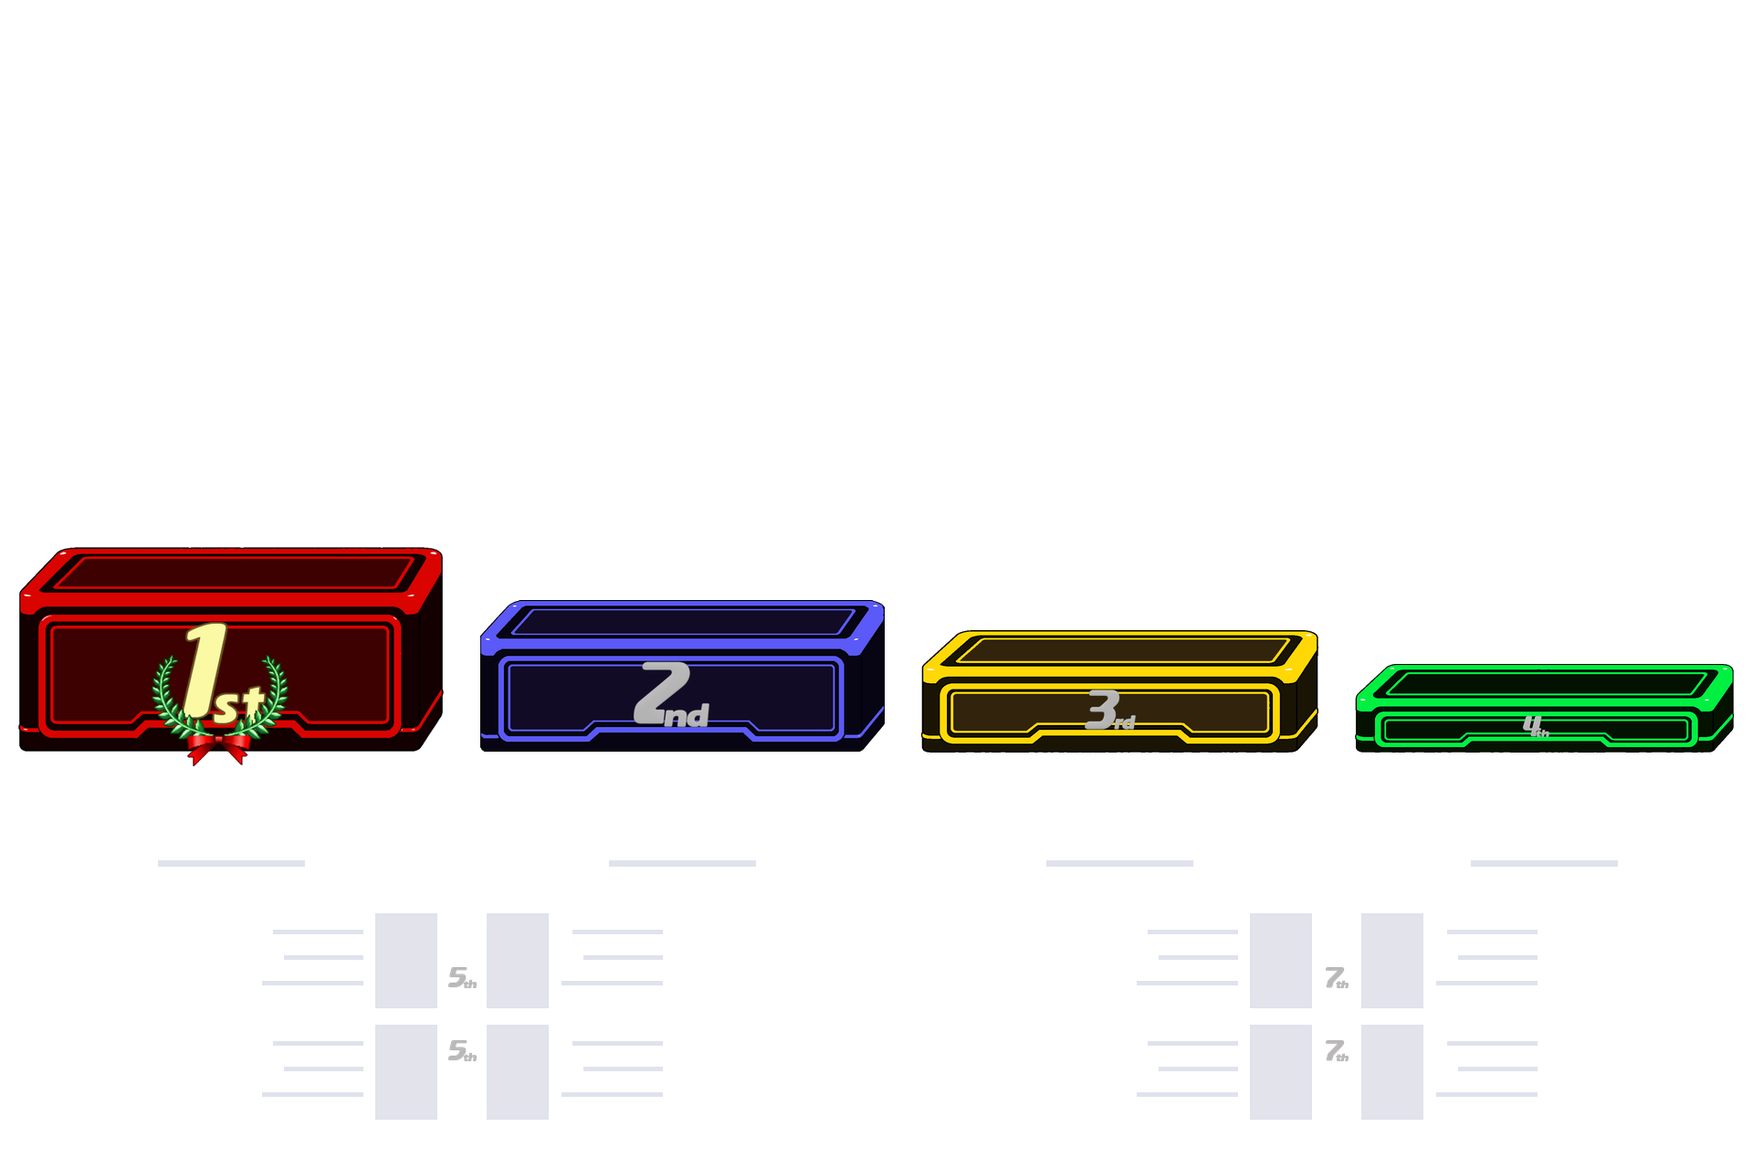
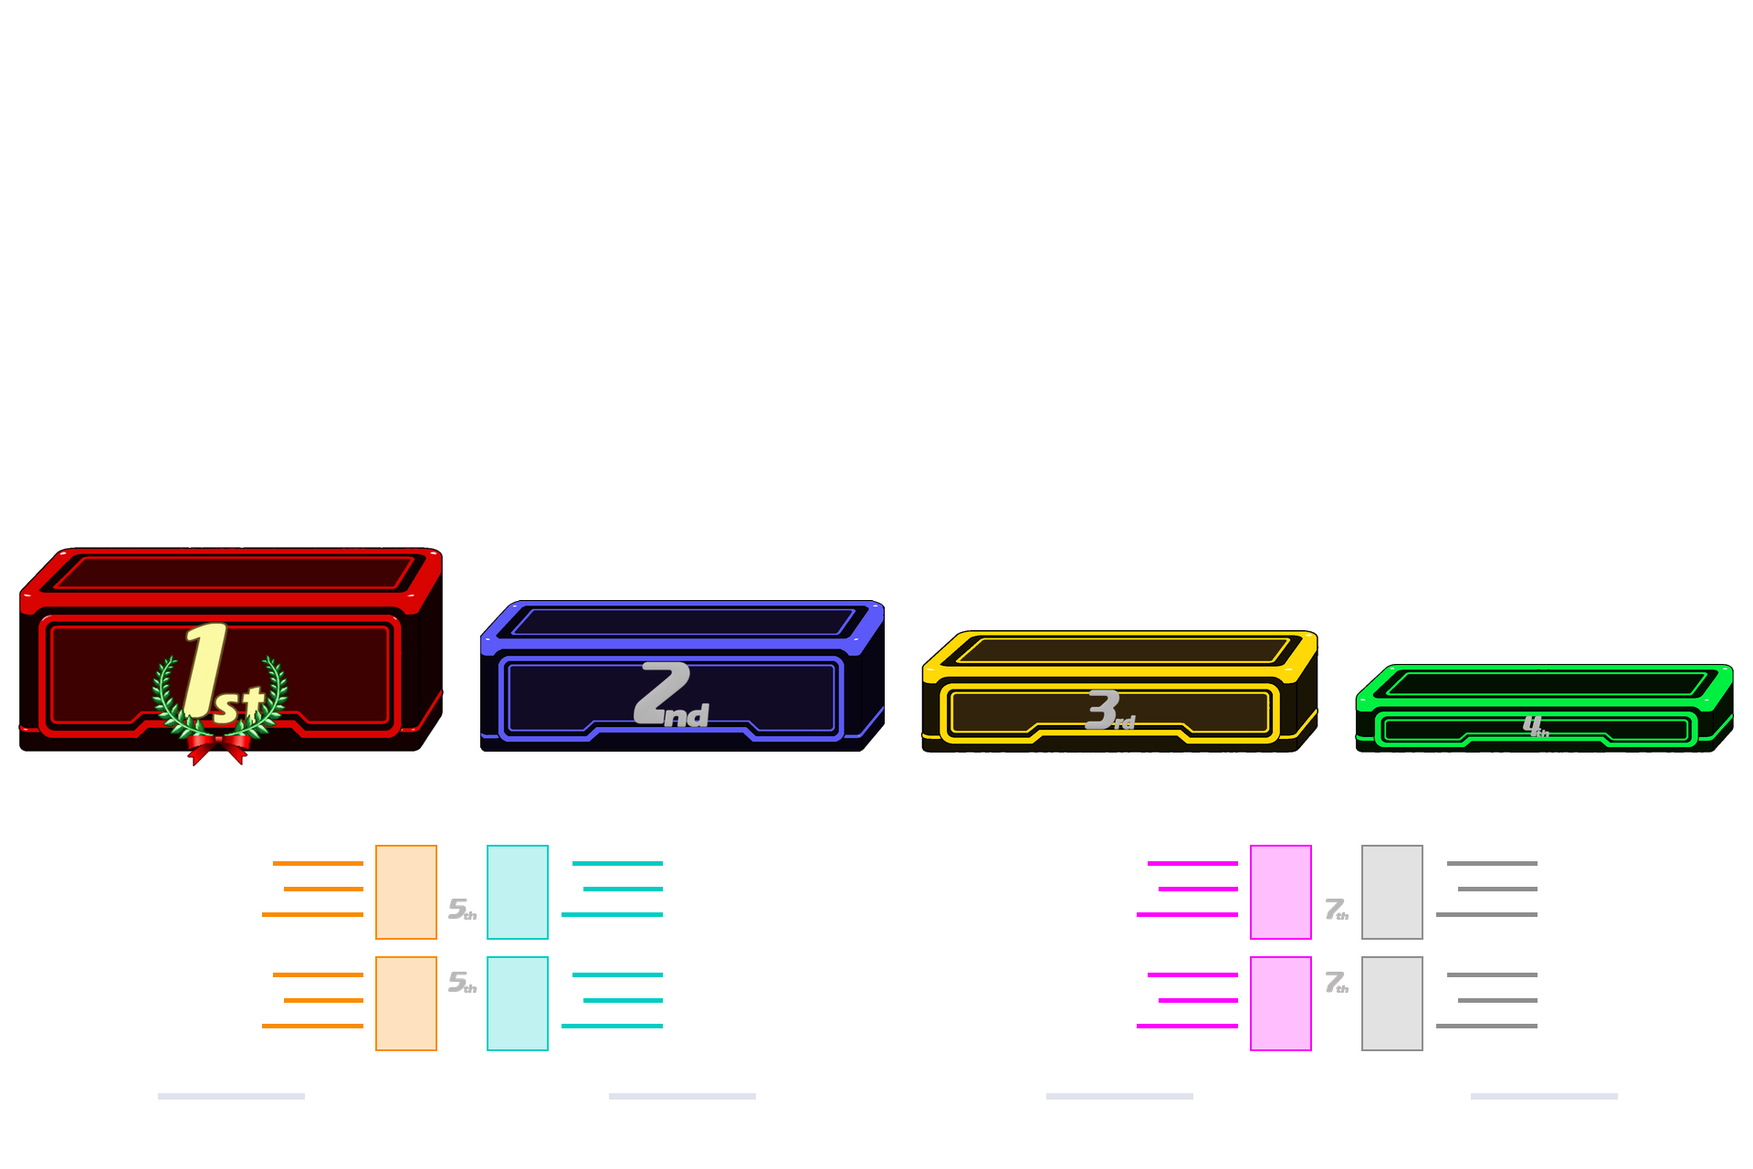
adding top 16 singles and top 8 doubles templates, fixing the colors and layout

Changed region(s): [[0.0938, 0.7188, 0.4375, 0.9688], [0.5938, 0.7188, 0.9062, 0.9688]]

diff --git a/test/extended_clapping_test.py b/test/extended_clapping_test.py
@@ -11,7 +11,8 @@ from PIL import Image, ImageChops
 
 from app import app
 from background_builder import BackgroundRequest
-from creation import CreationPipeline, CreationRequest
+from creation import CreationPipeline, CreationRequest, TextSettings
+from clapping_colors import TOP16_PLAYER_COLOR_SLOTS, resolve_clapping_podium_colors
 from creation_modes import CreationMode, ModeOptions, ModeSelection, PodiumStyle
 from DrawPodium import PodiumFont
 from extended_clapping_renderer import DoublesClappingContentRenderer, SinglesTop16ClappingContentRenderer
@@ -131,6 +132,48 @@ class ExtendedClappingTest(unittest.TestCase):
             with self.assertRaisesRegex(ValueError, "fit every lower entrant"):
                 InvalidRenderer().prepare(Image.new("RGBA", preferences.canvas_size.as_tuple()), request, preferences)
 
+    def test_revised_labels_and_badges_follow_portrait_geometry(self):
+        for style in PodiumStyle:
+            renderer = DoublesClappingContentRenderer()
+            selection = ModeSelection(CreationMode.PODIUM, ModeOptions(TournamentFormat.DOUBLES, 8, "four_podium", style))
+            profile = renderer._profile(type("Request", (), {"selection": selection})())
+            for label in profile["team_names"]:
+                panels = [row for row in profile["panels"] if row["entrant_slot"] == label["entrant_slot"]]
+                self.assertEqual(panels[0]["portrait_rect"][1], 925)
+                self.assertGreater(label["anchor"]["y"], max(row["portrait_rect"][3] for row in panels))
+            selection = ModeSelection(CreationMode.PODIUM, ModeOptions(TournamentFormat.SINGLES, 16, "clapping", style))
+            profile = SinglesTop16ClappingContentRenderer()._profile(type("Request", (), {"selection": selection})())
+            for panel, badge in zip(profile["panels"], profile["placement_tags"], strict=True):
+                self.assertEqual(badge["anchor"]["x"], panel["portrait_rect"][2] + 20)
+                self.assertEqual(badge["anchor"]["y"], panel["portrait_rect"][3] + 12)
+
+    def test_top16_player_palette_groups_ties_and_legacy_lower_colors_reverse(self):
+        from app import _custom_preview_colors
+        source = PodiumColorConfiguration.from_preset(PodiumColorPreset.LEGACY)
+        teams = sample_singles_entrants(16, random.Random(16))
+        for style in PodiumStyle:
+            selection = ModeSelection(CreationMode.PODIUM, ModeOptions(TournamentFormat.SINGLES, 16, "clapping", style))
+            preferences = ModePreferenceRepository().load(selection)
+            colors = resolve_clapping_podium_colors(selection, source) if style is PodiumStyle.CUSTOMIZABLE else None
+            request = CreationRequest(selection, BackgroundRequest(preferences.canvas_size), teams,
+                                      sample_tournament(), podium_colors=colors)
+            actual = [SinglesTop16ClappingContentRenderer._default_text_style(request, slot)[0] for slot in range(1, 17)]
+            if style is PodiumStyle.CUSTOMIZABLE:
+                expected = [source.color_for_slot(slot).resolve().text_color for slot in TOP16_PLAYER_COLOR_SLOTS]
+                self.assertEqual(actual, expected)
+            else:
+                self.assertEqual(actual[8:], actual[:8][::-1])
+            override = replace(request, text_settings=TextSettings(entrant_text_color_mode="pick_1", entrant_text_colors=("#12345678",)))
+            self.assertEqual(SinglesTop16ClappingContentRenderer._default_text_style(override, 16), ("#12345678", False))
+        api_colors = _custom_preview_colors({"mode": "premade", "preset": "smash_player_colors", "colors": [],
+                    "preset_transparency": {"main_color": 50, "face_color": 25, "base_color": 75}}, 16, "clapping")
+        for slot, source_slot in enumerate(TOP16_PLAYER_COLOR_SLOTS, start=1):
+            actual = api_colors.color_for_slot(slot).resolve()
+            original = source.color_for_slot(source_slot).resolve()
+            self.assertEqual(actual.main_color, original.main_color[:7] + "80")
+            self.assertEqual(actual.face_color, original.face_color[:7] + "BF")
+            self.assertEqual(actual.base_color, original.base_color[:7] + "40")
+
     def test_new_canvas_composition_is_retained_in_every_gif_frame(self):
         def upload(image):
             buffer = BytesIO()
@@ -149,13 +192,23 @@ class ExtendedClappingTest(unittest.TestCase):
             })
             self.assertEqual(response.status_code, 200)
             with Image.open(BytesIO(response.data)) as image:
+                reference_pixels = {}
                 for index in (0, 18, 41):
                     image.seek(index)
                     frame = image.convert("RGBA")
-                    for point, expected in (((800, height - 4), (18, 52, 86)), ((710, 30), (204, 102, 51))):
+                    # The footer can now choose the middle after team labels move.
+                    # Sample the clear gap between the two lower result groups.
+                    for point, expected in (((836, height - 100), (18, 52, 86)), ((710, 30), (204, 102, 51))):
                         actual = frame.getpixel(point)
                         self.assertEqual(actual[3], 255)
-                        self.assertLess(max(abs(a - b) for a, b in zip(actual[:3], expected)), 32)
+                        # GIF indexing can shift a rare logo color more in one
+                        # channel; check aggregate color error and exact stability.
+                        self.assertLess(sum((a - b) ** 2 for a, b in zip(actual[:3], expected)), 3 * 32 ** 2,
+                                        f"{event_format} frame {index}, pixel {point}: {actual}")
+                        if index == 0:
+                            reference_pixels[point] = actual
+                        else:
+                            self.assertEqual(actual, reference_pixels[point])
 
 
 if __name__ == "__main__":

diff --git a/extended_clapping_renderer.py b/extended_clapping_renderer.py
@@ -8,10 +8,13 @@ from random import choice
 from PIL import ImageDraw
 
 from color_values import format_rgba_hex
+from clapping_colors import legacy_top16_text_slot, TOP16_PLAYER_COLOR_SLOTS
+from creation_modes import PodiumStyle
 from DrawPodium import _character_with_team_color, _draw_text, _text_bounds, _wrap_text
 from font_size_adjustments import adjusted_size
 from models import SinglesEntrant, TournamentFormat
 from podiums_clapping_renderer import PodiumsClappingContentRenderer
+from podium_colors import PodiumColorConfiguration, PodiumColorMode, PodiumColorPreset
 
 
 PROFILE = Path(__file__).resolve().parent / "preferences/portraits/extended_clapping.json"
@@ -37,12 +40,6 @@ class ExtendedClappingContentRenderer(PodiumsClappingContentRenderer):
                 teams.append(replace(team, team_color=None, entrant_1=members[0], entrant_2=members[1]))
             request = replace(request, entrants=teams)
         return super().prepare(canvas, request, preferences, **kwargs)
-
-    @staticmethod
-    def _default_text_style(request, entrant_slot):
-        if request.text_settings.entrant_text_color_mode == "match_podium":
-            entrant_slot = (entrant_slot - 1) % 8 + 1
-        return PodiumsClappingContentRenderer._default_text_style(request, entrant_slot)
 
     @staticmethod
     def _default_text_style(request, entrant_slot):
@@ -81,7 +78,7 @@ class DoublesClappingContentRenderer(ExtendedClappingContentRenderer):
                 color = format_rgba_hex(*color[:3], color[3] if len(color) == 4 else 255)
             options = dict(anchor=row["pillow_anchor"], max_width=row["max_width"],
                            preferred_size=adjusted_size(row["preferred_size"], team.team_name_font_size_adjustment),
-                           font=self.font)
+                           font=self.font, vertical_center_lines=2)
             position = (row["anchor"]["x"], row["anchor"]["y"])
             text = _wrap_text(team.team_name, row["max_width"], options["preferred_size"], self.font)
             if text.count("\n") > 1:
@@ -92,5 +89,18 @@ class DoublesClappingContentRenderer(ExtendedClappingContentRenderer):
 
 
 class SinglesTop16ClappingContentRenderer(ExtendedClappingContentRenderer):
+    @staticmethod
+    def _default_text_style(request, entrant_slot):
+        if request.text_settings.entrant_text_color_mode == "match_podium":
+            if request.selection.options.podium_style is PodiumStyle.LEGACY:
+                entrant_slot = legacy_top16_text_slot(entrant_slot)
+            elif isinstance(request.podium_colors, PodiumColorConfiguration):
+                colors = request.podium_colors
+                if colors.mode is PodiumColorMode.PRESET and colors.preset is PodiumColorPreset.LEGACY:
+                    entrant_slot = TOP16_PLAYER_COLOR_SLOTS[entrant_slot - 1]
+                elif colors.mode is PodiumColorMode.PRESET or len(colors.colors) < 16:
+                    entrant_slot = (entrant_slot - 1) % 8 + 1
+        return PodiumsClappingContentRenderer._default_text_style(request, entrant_slot)
+
     def _panel_keys(self):
         return tuple((slot, None) for slot in range(9, 17))

diff --git a/clapping_preview_layers.py b/clapping_preview_layers.py
@@ -7,11 +7,13 @@ from pathlib import Path
 from PIL import Image, ImageDraw
 
 from creation_modes import CreationMode, ModeOptions, ModeSelection, PodiumStyle
+from clapping_colors import top16_player_colors, legacy_top16_text_slot
 from extended_clapping_renderer import PROFILE
 from formatting_assets import FormattingAssetRenderer, draw_placement_tags
 from mode_preferences import ModePreferenceRepository, PlacementTagPlacement
 from models import TournamentFormat
 from preview_layers import _customizable_colors
+from podium_colors import PodiumColorConfiguration, PodiumColorPreset
 
 
 EXTENDED_CLAPPING_LAYOUTS = {
@@ -26,18 +28,28 @@ def render_extended_clapping_layer(style, layout_id, color_id=None):
     preferences = ModePreferenceRepository().load(selection)
     canvas = Image.new("RGBA", preferences.canvas_size.as_tuple(), "#00000000")
     colors = _customizable_colors(color_id or "smash_player_colors", 8) if style is PodiumStyle.CUSTOMIZABLE else None
+    top16 = layout_id == "singles_top_16_clapping"
+    if top16 and style is PodiumStyle.CUSTOMIZABLE and color_id in {None, "smash_player_colors"}:
+        colors = top16_player_colors(colors)
     result = FormattingAssetRenderer().draw(canvas, preferences, colors)
     profile = json.loads(PROFILE.read_text(encoding="utf-8"))["layouts"][layout_id][style.value]
     draw = ImageDraw.Draw(result)
     for panel in profile["panels"]:
+        slot = panel["entrant_slot"]
+        if top16 and style is PodiumStyle.LEGACY:
+            slot = legacy_top16_text_slot(slot)
+        elif not (top16 and colors is not None and len(colors.colors) == 16):
+            slot = (slot - 1) % 8 + 1
+        palette = colors or PodiumColorConfiguration.from_preset(PodiumColorPreset.LEGACY)
+        text_color = palette.color_for_slot(slot).resolve().text_color
         left, top, right, bottom = panel["portrait_rect"]
-        draw.rectangle((left, top, right - 1, bottom - 1), fill="#8E95AF40", outline="#D8DCE8CC", width=2)
+        draw.rectangle((left, top, right - 1, bottom - 1), fill=f"{text_color[:7]}40", outline=text_color, width=2)
         x = panel["text_x"]
         size = min(110, panel["text_max_width"])
         start = x - size if panel["text_alignment"] == "right" else x
         for offset, inset in ((20, 12), (48, 24), (76, 0)):
             y = top + round(offset * panel.get("identity_scale", 1))
-            draw.line((start + inset, y, start + size, y), fill="#D8DCE8CC", width=5)
+            draw.line((start + inset, y, start + size, y), fill=text_color, width=5)
     for row in profile.get("team_names", []):
         x, y = row["anchor"]["x"], row["anchor"]["y"]
         draw.line((x - 80, y + 20, x + 80, y + 20), fill="#D8DCE8CC", width=7)

diff --git a/test/generate/generate_extended_clapping_geometry.py b/test/generate/generate_extended_clapping_geometry.py
@@ -30,17 +30,17 @@ def generate():
             for member in (1, 2):
                 row = deepcopy(panel)
                 row["member_slot"] = member
-                row["portrait_rect"][1] = 1000 + (member - 1) * 122
+                row["portrait_rect"][1] = 925 + (member - 1) * 122
                 row["portrait_rect"][3] = row["portrait_rect"][1] + 104
                 profile["panels"].append(row)
-            # Keep the heading centered over the full text/portrait block.
+            # Center the team label beneath both member rows, like the podium labels.
             left = panel["text_x"] - panel["text_max_width"] if panel["text_alignment"] == "right" else panel["portrait_rect"][0]
             right = panel["portrait_rect"][2] if panel["text_alignment"] == "right" else panel["text_x"] + panel["text_max_width"]
             profile["team_names"].append({"entrant_slot": panel["entrant_slot"],
-                "anchor": {"x": (left + right) // 2, "y": 925}, "max_width": right - left,
+                "anchor": {"x": (left + right) // 2, "y": 1180}, "max_width": right - left,
                 "pillow_anchor": "ma", "preferred_size": 34})
         for index, badge in enumerate(profile["placement_tags"]):
-            badge["anchor"]["y"] = 1070 + (index % 2) * 80
+            badge["anchor"]["y"] = 995 + (index % 2) * 80
         layouts["doubles_top_8_four_podium"][style] = profile
 
         singles = json.loads((folder / "singles_top_8.json").read_text())
@@ -77,8 +77,8 @@ def generate():
                 "text_max_width": right - left - 61, "text_alignment": "left", "identity_scale": 0.7})
             profile["placement_tags"].append({"slot_id": f"entrant_{index + 9}_placement_tag",
                 "asset_id": "09th.png" if index < 4 else "13th.png",
-                "anchor": {"x": (left + right) // 2, "y": 821},
-                "max_size": {"width": 48, "height": 32}, "z_index": 200 + index})
+                "anchor": {"x": left + 52 + 20, "y": 942},
+                "max_size": {"width": 42, "height": 24}, "z_index": 200 + index})
         layouts["singles_top_16_clapping"][style] = profile
     write_json(ROOT / "preferences/portraits/extended_clapping.json", {"schema_version": 1, "layouts": layouts})
 

diff --git a/clapping_colors.py b/clapping_colors.py
@@ -1,0 +1,29 @@
+"""Rank-based player colors for Singles Top 16's podium and clapping rows."""
+
+from creation_modes import CreationMode
+from podium_colors import PodiumColorConfiguration, PodiumColorMode, PodiumColorPreset
+
+
+# Four leading colors, then one color per tied tournament placement group.
+TOP16_PLAYER_COLOR_SLOTS = (1, 2, 3, 4, 5, 5, 6, 6, 7, 7, 7, 7, 8, 8, 8, 8)
+
+
+def top16_player_colors(source):
+    """Retain all palette channels and finishes while grouping tied ranks."""
+    return PodiumColorConfiguration.per_podium(
+        *(source.color_for_slot(slot) for slot in TOP16_PLAYER_COLOR_SLOTS)
+    )
+
+
+def resolve_clapping_podium_colors(selection, colors):
+    """Expand the default player preset; explicit colors and other presets stay editable."""
+    if (selection.mode is CreationMode.PODIUM and selection.submode_id == "singles_top_16_clapping"
+            and isinstance(colors, PodiumColorConfiguration)
+            and colors.mode is PodiumColorMode.PRESET and colors.preset is PodiumColorPreset.LEGACY):
+        return top16_player_colors(colors)
+    return colors
+
+
+def legacy_top16_text_slot(entrant_slot):
+    """Keep the eight fixed podium colors, then reverse them across the lower row."""
+    return entrant_slot if entrant_slot <= 8 else 17 - entrant_slot

diff --git a/creation.py b/creation.py
@@ -3,7 +3,7 @@
 from __future__ import annotations
 
 from collections.abc import Mapping, Sequence
-from dataclasses import dataclass, field
+from dataclasses import dataclass, field, replace
 
 from PIL import Image
 
@@ -14,6 +14,7 @@ from background_builder import (
     create_background,
 )
 from color_values import normalize_rgba_hex
+from clapping_colors import resolve_clapping_podium_colors
 from content_renderer import ContentRenderer
 from font_size_adjustments import validate_font_size_adjustment
 from creation_modes import CreationMode, ModeSelection, PodiumStyle
@@ -210,6 +211,7 @@ class CreationPipeline:
     def create(self, request: CreationRequest) -> Image.Image:
         mode_preferences = self.preferences.load(request.selection)
         self._validate_preferences(request, mode_preferences)
+        request = replace(request, podium_colors=resolve_clapping_podium_colors(request.selection, request.podium_colors))
 
         background = create_background(
             request.background,

diff --git a/format_preview.py b/format_preview.py
@@ -17,6 +17,7 @@ from background_builder import (
 )
 from creation import CreationRequest
 from creation import TextSettings
+from clapping_colors import resolve_clapping_podium_colors
 from DrawPodium import PodiumFont
 from creation_modes import CreationMode, ModeOptions, ModeSelection, PodiumStyle
 from formatting_assets import FormattingAssetRenderer
@@ -153,6 +154,7 @@ def prepare_format_preview(
         if creation_mode is CreationMode.PODIUM and style is PodiumStyle.CUSTOMIZABLE
         else None
     )
+    podium_colors = resolve_clapping_podium_colors(selection, podium_colors)
     if creation_mode in {CreationMode.EYES, CreationMode.SQUARES, CreationMode.RADIAL} and formatting_colors is None:
         raise ValueError("Eyes, Squares, and Radial previews require formatting colors")
     request = CreationRequest(

diff --git a/app.py b/app.py
@@ -403,6 +403,10 @@ def _custom_preview_colors(
                 tuple(source.color_for_slot(slot) for slot in range(1, 9)),
                 color_count,
             )
+            if entrant_count == 16 and variant == "clapping":
+                from clapping_colors import top16_player_colors
+                colors = top16_player_colors(colors)
+                color_count = 16
         elif preset == "olympic_medals":
             source = PodiumColorConfiguration.from_preset(PodiumColorPreset.MEDALS)
             medal_colors = tuple(

diff --git a/AGENTS.md b/AGENTS.md
@@ -94,7 +94,7 @@
 
 - Podiums+Clapping is the official display name of the existing `four_podium` Singles Top 8 selection; preserve that identifier and geometry filenames for saved-format compatibility. Its Animated checkbox defaults to true, serializes in `selection.options.animated`, and restores false explicitly. Turning animation off keeps the four portrait panels as still images. Both versions share reviewed geometry in `preferences/portraits/podiums_clapping.json`; exact animated previews and downloads encode the synchronized clapping cycle as a looping GIF, with a standard PNG for still output. Compose the selected background and logo before encoding animation rather than flattening the download through browser canvas.
 
-- Extended Podiums+Clapping supports Doubles Top 8 (`doubles_top_8_four_podium`) and Singles Top 16 (`singles_top_16_clapping`) in both podium styles. Doubles keeps four podium teams and uses a 1280px-tall canvas with each lower team's name above two vertically stacked member portraits and identities. Singles Top 16 derives its eight podiums from Singles Top 8, moves podiums, portrait anchors, seeds, and placement art upward together by 48px, removes character-name footer labels, and uses a 1000px-tall canvas with eight smaller clapping panels underneath. Tournament ranks are 1, 2, 3, 4, 5, 5, 7, 7, four 9ths, and four 13ths. Keep the new panel geometry independent in `preferences/portraits/extended_clapping.json`; animation defaults on and explicit false restores still output. Cached formatting layers preserve the expanded canvases while shared podium header layers retain their original 941px vertical calibration.
+- Extended Podiums+Clapping supports Doubles Top 8 (`doubles_top_8_four_podium`) and Singles Top 16 (`singles_top_16_clapping`) in both podium styles. Doubles keeps four podium teams and uses a 1280px-tall canvas with two vertically stacked member portraits and identities above each lower team's name, matching the team labels beneath the upper podiums. Singles Top 16 derives its eight podiums from Singles Top 8, moves podiums, portrait anchors, seeds, and placement art upward together by 48px, removes character-name footer labels, and uses a 1000px-tall canvas with eight smaller clapping panels underneath. Its lower placement badges sit beside each portrait's bottom-right corner beneath the player name. Tournament ranks are 1, 2, 3, 4, 5, 5, 7, 7, four 9ths, and four 13ths. The Customizable Smash Player Colors preset groups tied ranks: both fifths orange, both sevenths teal, all ninths magenta, and all thirteenths gray; explicit color selections remain editable. Legacy retains the eight fixed podium colors and reverses their order for the lower clapping row. Keep the new panel geometry independent in `preferences/portraits/extended_clapping.json`; animation defaults on and explicit false restores still output. Cached formatting layers preserve the expanded canvases while shared podium header layers retain their original 941px vertical calibration.
 
 - Clapping portrait calibration saves independent 2nd-, 3rd-, and 4th-place zoom/crop profiles for all 26 characters in `preferences/portraits/clapping.json`. Current portraits use 3rd-place proportions for every lower result, independently of entrant rank. Match each reference column by its actual placement artwork, since column order varies by character. Keep these crops fixed across animation frames and preserve the reviewed Ice Climbers member composition; retain all three profiles for later explicit selection.
 
